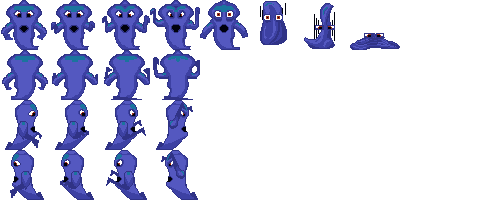
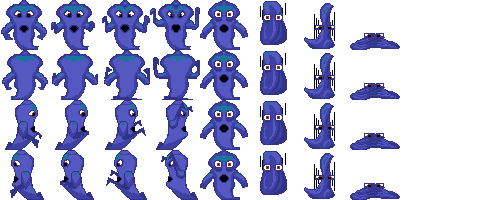
Integrate ghost death animation.

Changed region(s): [[0.39, 0.24, 0.81, 1.0]]

diff --git a/js/ghost.js b/js/ghost.js
@@ -11,6 +11,7 @@ class ghost extends enemy {
 			default: {loop: true, frames: [0]},
 			startTracking: {loop: false, frames: [1, 2, 3], nextAnimation: "tracking"},
 			tracking: {loop: true, frames: [3]},
+			dying: {loop: false, frames: [4, 5, 6, 7], whenDone: enemy => enemy.dead = true},
 		};
 		this.animationFrameCount = 0;
 		this.currentAnimationFrameIndex = 0;
@@ -20,7 +21,15 @@ class ghost extends enemy {
 		this.enemyCanRam = false;
 		this.enemyCanMelee = false;
 		this.usesPoleArm = false;
+		this.dying = false;
     }
+
+	move() {
+		if (this.dying) {
+			return;
+		}
+		super.move();
+	}
 
     draw(){
 		this.animate();
@@ -29,6 +38,19 @@ class ghost extends enemy {
         ghost_wisp(this.x+15, this.y+50);
     }
 
+	hit(damage) {
+		if (this.dying) {
+			return;
+		}
+		const wasAlive = !this.dead;
+		super.hit(damage);
+		if (wasAlive && this.dead) {
+			this.dying = true;
+			this.dead = false; // prevent pruning to run death animation, this.dead will be true when dying animation finishes
+			this.onStateChange("dying");
+		}
+	}
+
 	animate() {
 		this.animationFrameCount++;
 		if (this.animationFrameCount > ghost.advanceAnimationFrameAmount) {
@@ -36,19 +58,27 @@ class ghost extends enemy {
 			if (this.currentAnimationFrameIndex >= this.currentAnimation.frames.length) {
 				this.currentAnimationFrameIndex = 0;
 				if (!this.currentAnimation.loop) {
-					this.currentAnimation = this.animations[this.currentAnimation.nextAnimation];
+					if (typeof this.currentAnimation.whenDone === "function") {
+						this.currentAnimation.whenDone(this);
+					}
+					this.currentAnimation = this.animations[this.currentAnimation.nextAnimation || this.animations.default];
 				}
 			}
 			this.animationFrameCount = 0;
 		}
-		const frame = this.currentAnimation.frames[this.currentAnimationFrameIndex];
-		this.sx =  frame * this.swidth;
+		if (!this.dead) {
+			const frame = this.currentAnimation.frames[this.currentAnimationFrameIndex];
+			this.sx =  frame * this.swidth;
+		}
 	}
 
 	onStateChange(state) {
 		switch (state) {
 		case "tracking":
 			this.currentAnimation = this.animations.startTracking;
+			break;
+		case "dying":
+			this.currentAnimation = this.animations.dying;
 			break;
 		default:
 			this.currentAnimation = this.animations.default;
